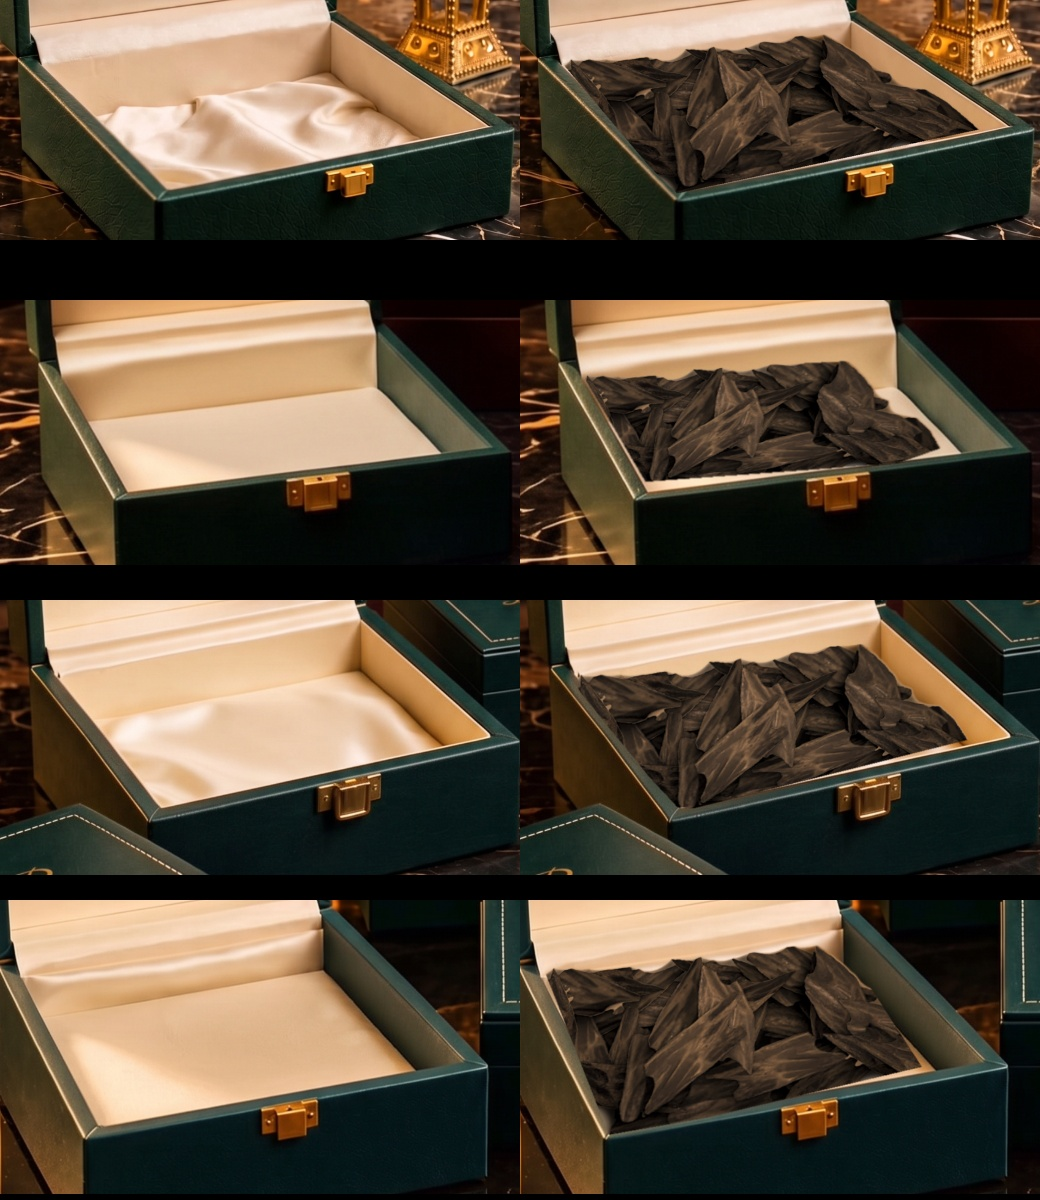
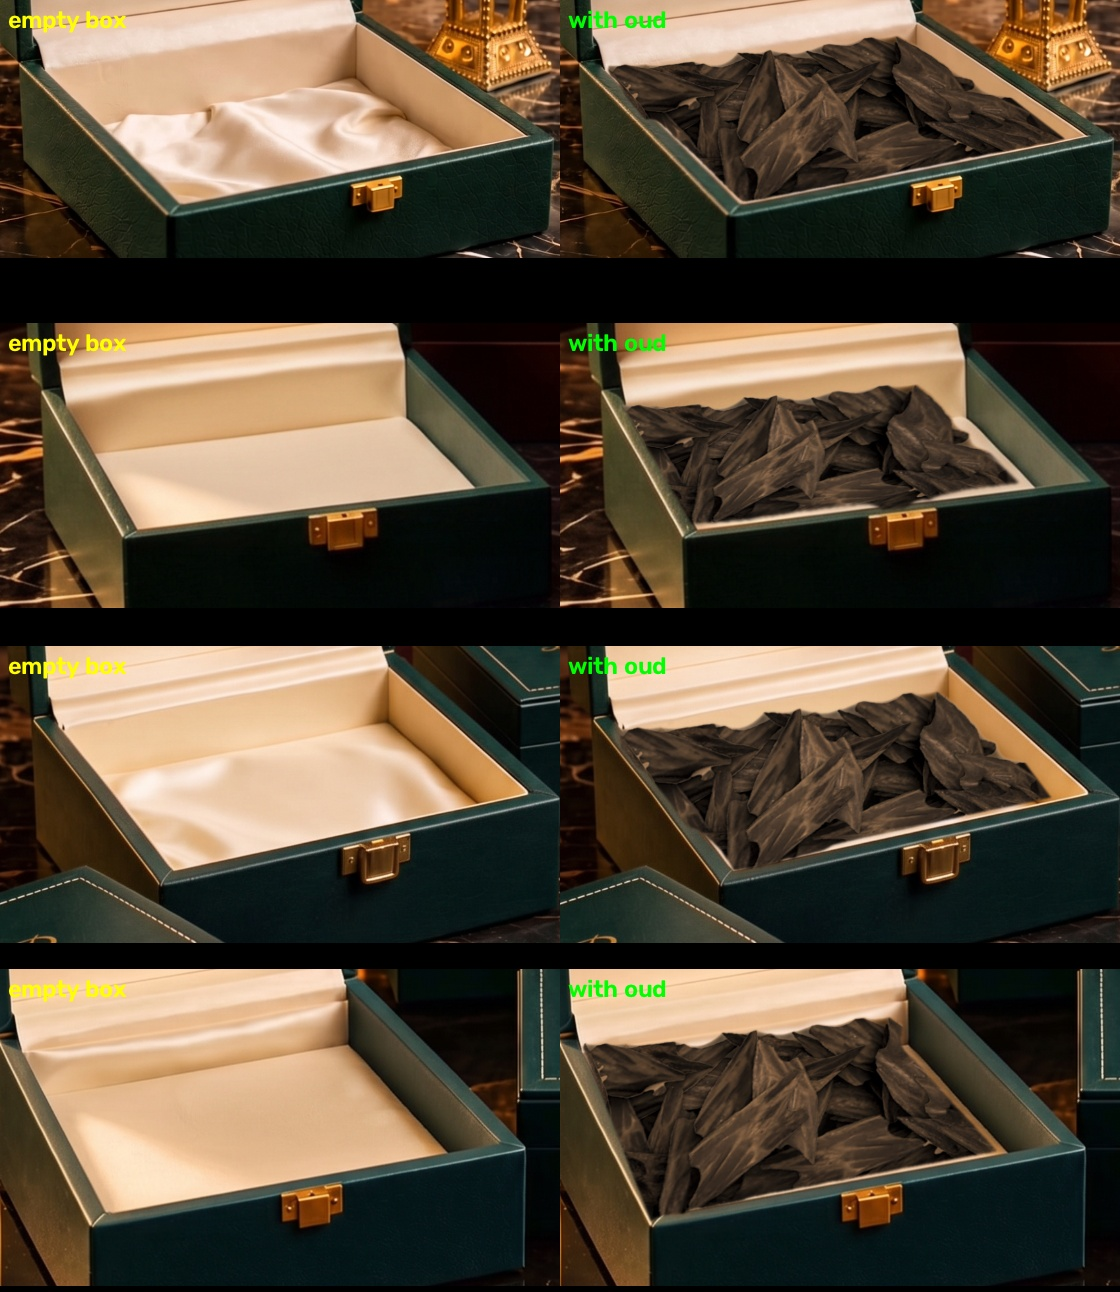
Box library: exact opening mask (rim band untouched, even width front/back), smooth tucked edges; updated ad-2 stills
Claude-Session: https://claude.ai/code/session_01TQdgL8psWQ5B4XyTxv2k9v

diff --git a/.claude/skills/product-ad-fidelity/scripts/box_masters.py b/.claude/skills/product-ad-fidelity/scripts/box_masters.py
@@ -20,11 +20,11 @@ HERE = os.path.dirname(os.path.abspath(__file__))
 ap = argparse.ArgumentParser(); ap.add_argument('cmd'); ap.add_argument('args', nargs='*')
 ap.add_argument('--lib', default=os.path.join(HERE, '..', 'assets', 'box_masters'))
 ap.add_argument('--master'); ap.add_argument('--relight', type=float, default=0.5); ap.add_argument('--edge', type=int, default=5)
-ap.add_argument('--left', type=float, default=-0.04, help='gap kept at the left wall (fraction of width; negative = under the wall)')
-ap.add_argument('--right', type=float, default=-0.04)
+ap.add_argument('--left', type=float, default=-0.08, help='gap kept at the left wall (fraction of width; negative = under the wall)')
+ap.add_argument('--right', type=float, default=-0.08)
 ap.add_argument('--mirror', action='store_true')
-ap.add_argument('--wall_px', type=int, default=14, help='even lining strip kept between wood and the walls (px at plate size)')
-ap.add_argument('--front', type=float, default=-0.04)
+ap.add_argument('--wall_px', type=int, default=8, help='even lining strip kept between wood and the walls (px at plate size)')
+ap.add_argument('--front', type=float, default=-0.1)
 ap.add_argument('--back', type=float, default=0.1, help='empty band left at the back of the new box (fraction of depth)')
 A = ap.parse_args(); os.makedirs(A.lib, exist_ok=True); META = os.path.join(A.lib, 'masters.json')
 meta = json.load(open(META)) if os.path.exists(META) else {}
@@ -98,19 +98,25 @@ elif A.cmd == 'place':
     qm = np.zeros((H, W), np.uint8); cv2.fillPoly(qm, [dq.astype(np.int32)], 1)
     # the real opening = the light, non-green inside of the EMPTY plate. A hand-read quad that runs a few px over
     # a wall top made the wall look "bent inward" under the wood (client, ad 2 front-left corner) -> never cover green.
+    # the real opening = the CREAM lining of the EMPTY plate only. Not "non-green": the rim's top band carries a golden
+    # highlight, and a mask/convex hull that reached it let the wood cover the rim band at the front, so the rim looked
+    # wider in front than at the back (client, ad 2). Cream = bright, neutral-warm; holes (satin shadows) filled.
     lab = cv2.cvtColor(D.astype(np.uint8), cv2.COLOR_BGR2LAB).astype(np.int16)
-    opn = ((lab[..., 1] >= 124) & (lab[..., 0] > 60)).astype(np.uint8) & cv2.dilate(qm, np.ones((41, 41), np.uint8))
-    opn = cv2.morphologyEx(opn, cv2.MORPH_OPEN, np.ones((5, 5), np.uint8))
+    opn = ((lab[..., 1] >= 124) & (lab[..., 0] > 60)).astype(np.uint8)            # lining + inner walls (not green leather)
+    opn &= cv2.dilate(qm, np.ones((41, 41), np.uint8))
+    opn = cv2.morphologyEx(opn, cv2.MORPH_OPEN, cv2.getStructuringElement(cv2.MORPH_ELLIPSE, (17, 17)))   # drops the thin rim highlight
     n_, lb_, st_, _ = cv2.connectedComponentsWithStats(opn)
     if n_ > 1:
-        opn = (lb_ == 1 + np.argmax(st_[1:, 4])).astype(np.uint8); cn_, _ = cv2.findContours(opn, cv2.RETR_EXTERNAL, cv2.CHAIN_APPROX_NONE)
-        opn = np.zeros_like(opn); cv2.fillConvexPoly(opn, cv2.convexHull(max(cn_, key=cv2.contourArea)), 1);   # straight along the walls
+        opn = (lb_ == 1 + np.argmax(st_[1:, 4])).astype(np.uint8)
+        opn = cv2.morphologyEx(opn, cv2.MORPH_CLOSE, cv2.getStructuringElement(cv2.MORPH_ELLIPSE, (25, 25)))
+        cn_, _ = cv2.findContours(opn, cv2.RETR_EXTERNAL, cv2.CHAIN_APPROX_NONE); opn = np.zeros_like(opn); cv2.drawContours(opn, cn_, -1, 1, -1)
+        opn = (cv2.GaussianBlur(opn.astype(np.float32), (0, 0), 4) > 0.5).astype(np.uint8)      # smooth, straight edges
         qm = cv2.dilate(qm, np.ones((15, 15), np.uint8)) & opn
     qm = cv2.erode(qm, np.ones((A.edge, A.edge), np.uint8))
     if A.wall_px > 0:   # thin even strip of lining between wood and every wall: the wall's top edge stays crisp against
         # cream all the way round (wood touching the dark rim made the front-left "look bent", client ad 2)
         qm = cv2.erode(qm, cv2.getStructuringElement(cv2.MORPH_ELLIPSE, (2 * A.wall_px + 1,) * 2))
-    al = (wa * cv2.GaussianBlur(qm.astype(np.float32), (3, 3), 0))[..., None]   # never outside the opening
+    al = (wa * cv2.GaussianBlur(qm.astype(np.float32), (0, 0), 1.6))[..., None]   # never outside the opening
     cv2.imwrite(op, np.clip(D * (1 - al) + wF * al, 0, 255).astype(np.uint8)); print('wrote', op)
 
 elif A.cmd == 'sheet':

diff --git a/.claude/skills/product-ad-fidelity/references/lessons.md b/.claude/skills/product-ad-fidelity/references/lessons.md
@@ -23,6 +23,7 @@ with the client — don't repeat them.
 | Ad 2: the same approved heap transplanted into every box, whatever the angle → small low-angle boxes looked flat and crowded; client: "ad 1's distribution is better". | `box_masters.py`: library of approved heaps from several angles, nearest angle wins, heap footprint mapped to the new opening. |
 | Ad 2 box library: heap clipped to a hand-read quad that ran a few px over the left wall top → client: "the front-left of the box looks bent inward". | `place` clips to the convex hull of the plate's own light (non-green) opening: the wood stops exactly at the wall line, walls stay untouched. |
 | Still "bent" after that; a wedge-shaped gap at the left wall ("looks empty") was rejected too. Cause: dark wood touching the dark rim hides the wall's top edge near the front, while at the back the edge shows against cream. | `--wall_px 14` (default): an even, thin lining strip between wood and every wall all the way round; heap stays full, walls read exactly like the empty box. |
+| Then: "the rim is wider at the front than at the back". The opening mask (non-green + convex hull) reached the golden highlight on the rim, so wood covered the inner half of the rim band at the front. | Opening = non-green after a 17 px morphological open (removes the thin rim highlight), filled + smoothed, no convex hull; heap tucked under the walls (`--left/--right -0.08 --front -0.1`) so the master's own cut edge never shows; clip feathered σ 1.6. Check with a pixel diff that no rim pixel changed. |
 | Pieces climbing the back wall. | Pull the back edge of the allowed area toward the floor (`backt` 0.6-0.7). |
 | One side looked empty after that. | `leftwide` + `leftfill`. |
 | Pieces too small → client asked "a bit longer, small amount". | `elong` 1.12 on the long axis only. |
